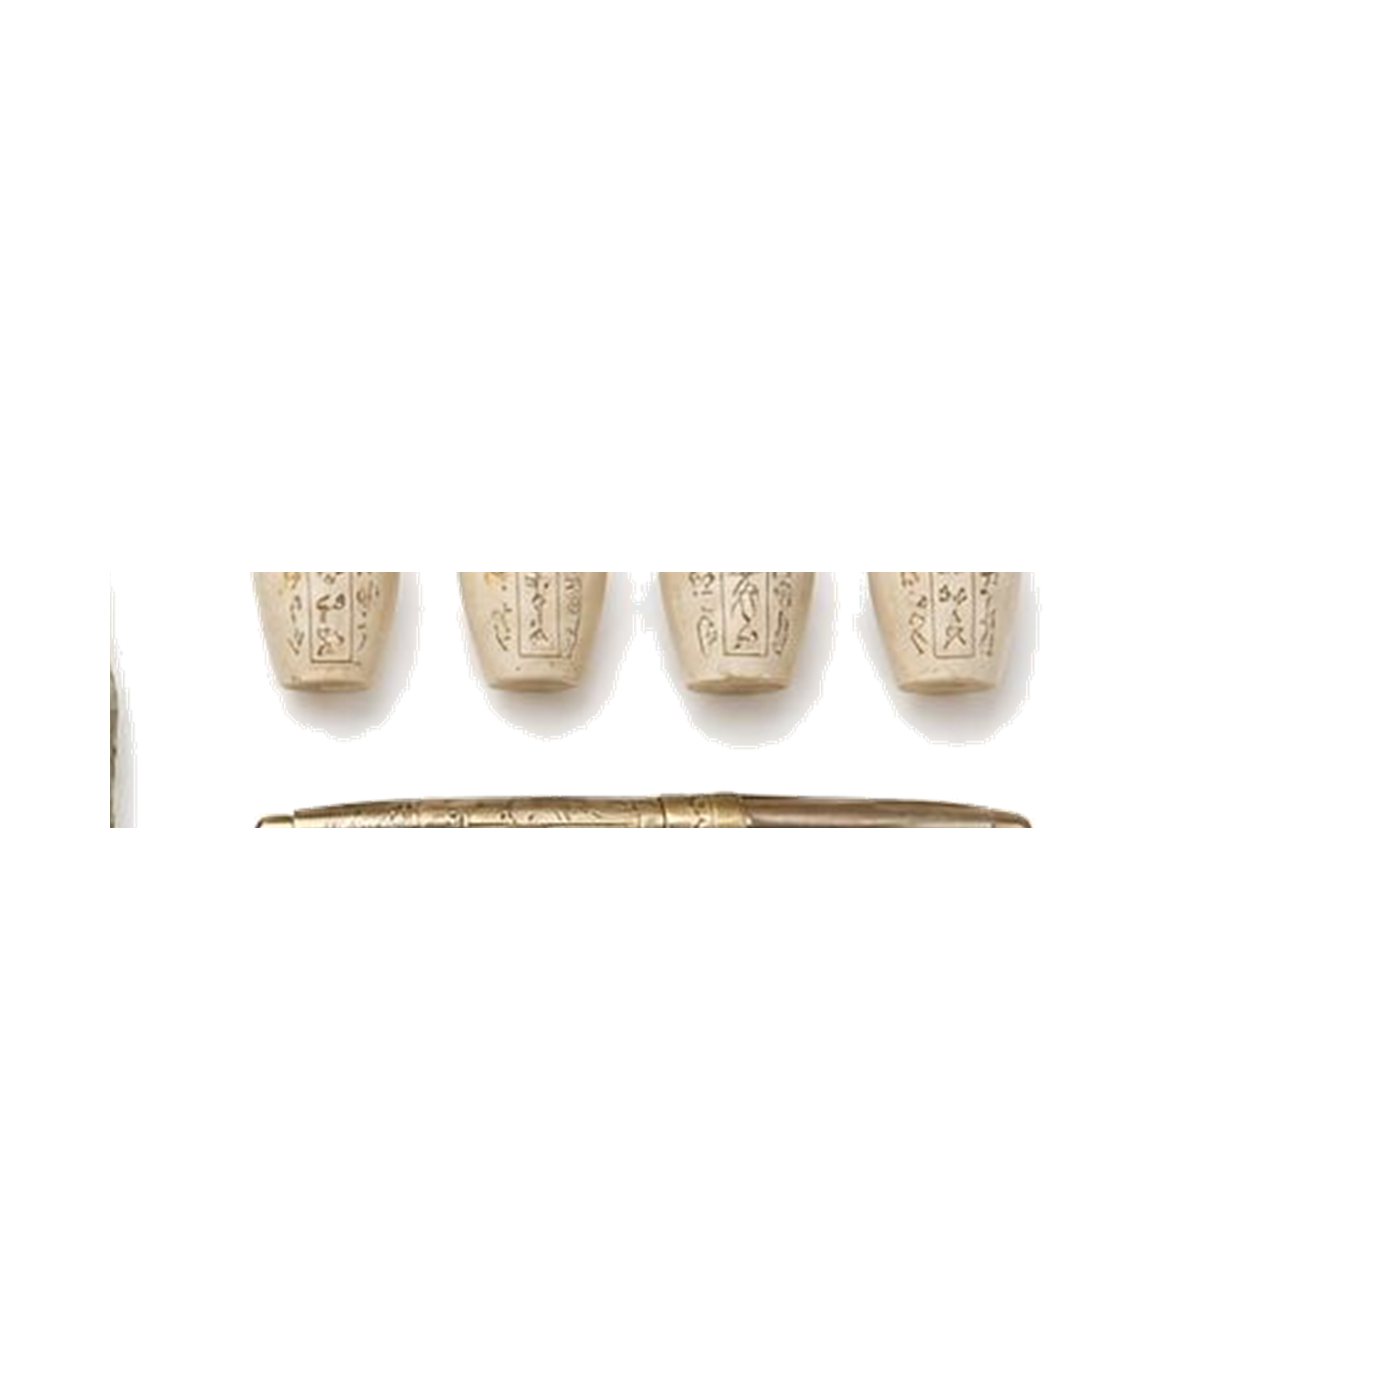
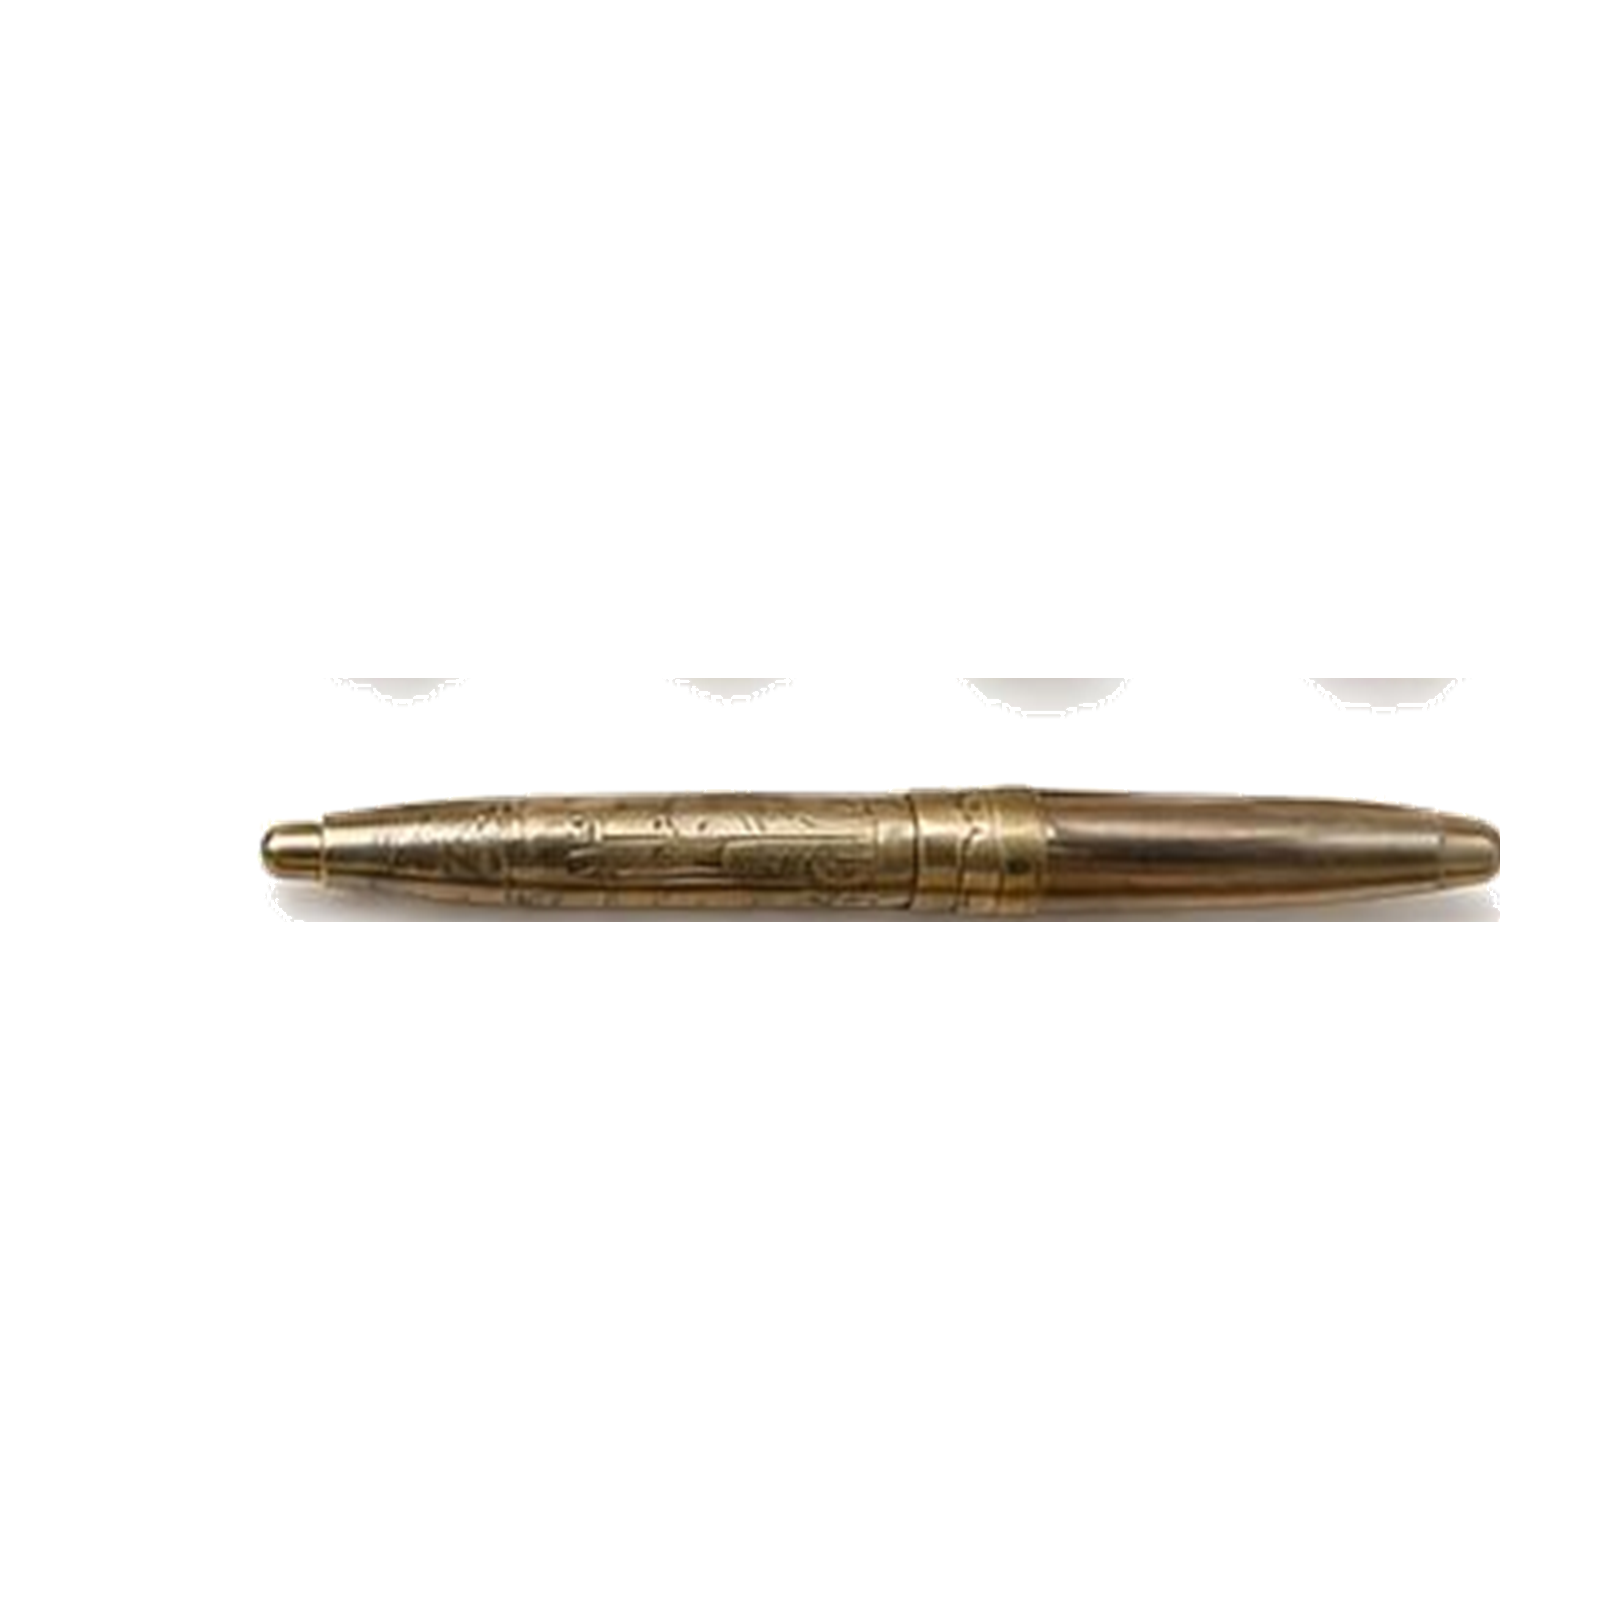
Improve Travel item previews

Changed region(s): [[0.1536, 0.3993, 0.9521, 0.6143], [0.8293, 0.3993, 0.9214, 0.4607], [0.0614, 0.4607, 0.0921, 0.6143]]

diff --git a/src/JudhoorApp.jsx b/src/JudhoorApp.jsx
@@ -239,6 +239,8 @@ function ItemPreviewModal({ item, onClose }) {
     return null;
   }
 
+  const usesFullImagePreview = item.previewSize === "contain";
+
   return (
     <div className="jh-modal" onClick={onClose} role="presentation">
       <div
@@ -253,13 +255,19 @@ function ItemPreviewModal({ item, onClose }) {
         </button>
         <div className="jh-modal__layout">
           <div
-            className="jh-item-preview"
-            style={{
-              backgroundImage: `url(${item.sprite})`,
-              backgroundPosition: item.previewPosition ?? item.position,
-              backgroundSize: item.previewSize ?? "300% 300%",
-            }}
-          />
+            className={`jh-item-preview ${usesFullImagePreview ? "jh-item-preview--image" : ""}`}
+            style={
+              usesFullImagePreview
+                ? undefined
+                : {
+                    backgroundImage: `url(${item.sprite})`,
+                    backgroundPosition: item.previewPosition ?? item.position,
+                    backgroundSize: item.previewSize ?? "300% 300%",
+                  }
+            }
+          >
+            {usesFullImagePreview ? <img src={item.sprite} alt={item.name} /> : null}
+          </div>
           <div className="jh-modal__copy">
             <p className="jh-eyebrow">Product Detail</p>
             <h2>{item.name}</h2>

diff --git a/src/judhoor.css b/src/judhoor.css
@@ -1083,6 +1083,23 @@ img {
   box-shadow: inset 0 1px 1px rgba(255, 255, 255, 0.72);
 }
 
+.jh-item-preview--image {
+  display: grid;
+  place-items: center;
+  padding: clamp(12px, 2vw, 24px);
+  background:
+    radial-gradient(circle at 50% 50%, rgba(255, 255, 255, 0.72), transparent 58%),
+    linear-gradient(180deg, rgba(255, 252, 246, 0.96), rgba(240, 226, 205, 0.9));
+}
+
+.jh-item-preview--image img {
+  width: 100%;
+  height: 100%;
+  max-height: 430px;
+  object-fit: contain;
+  filter: drop-shadow(0 22px 28px rgba(60, 43, 27, 0.18));
+}
+
 .jh-modal__copy h2 {
   margin: 0 0 10px;
   font-family: var(--jh-font-display);
